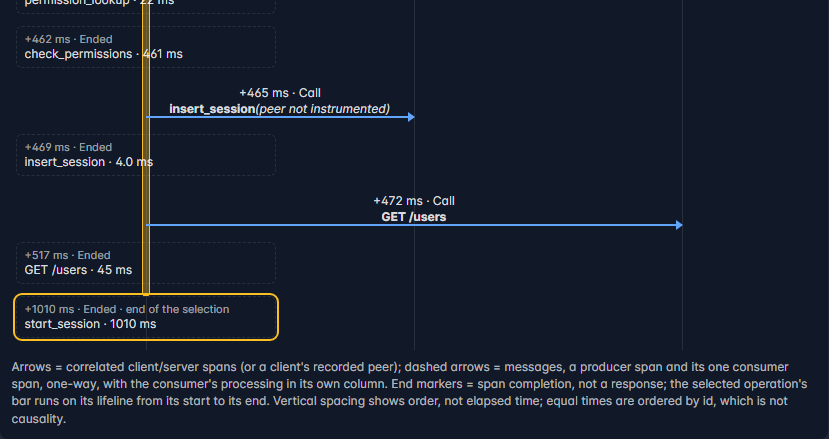
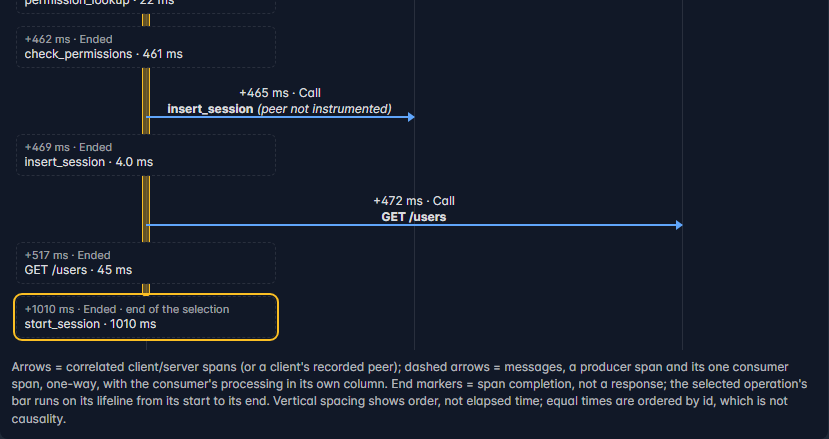
fix(ui): space before "(repeat n of m)" in Sequence call labels; site: Sequence shots with marks above the activation bar (#64)
The template compiler dropped the space at the start of the repeat label
("Call(repeat 1 of 20)"); it is now part of the expression. The Sequence
screenshots are retaken with #61-#62 (labels above the activation bar,
spaced peer notes).

diff --git a/log-ui/src/components/problems/SequenceView.vue b/log-ui/src/components/problems/SequenceView.vue
@@ -59,7 +59,7 @@
         <div v-for="e in page.events" :key="e.id" class="row">
           <button v-if="e.kind === 'call' || e.kind === 'message'" type="button" class="arrow" :class="{ sel: isSelected(e), rtl: col(e.target!) < col(e.participant), msg: e.kind === 'message' }"
             :style="arrowStyle(e)" :aria-pressed="isSelected(e)" @click="pick(e)" :data-testid="e.kind === 'message' ? 'seq-message' : 'seq-call'" :data-span-key="e.spanKey">
-            <span class="lbl">+{{ fmtMs(e.timeMs ?? 0) }} ms · {{ e.kind === 'message' ? 'Message' : 'Call' }}<template v-if="repeatOf(e)"> {{ repeatOf(e) }}</template><br><b>{{ e.label }}</b><i v-if="!targetObserved(e)" class="peer">(peer not instrumented)</i></span>
+            <span class="lbl">+{{ fmtMs(e.timeMs ?? 0) }} ms · {{ e.kind === 'message' ? 'Message' : 'Call' }}{{ repeatOf(e) ? ' ' + repeatOf(e) : '' }}<br><b>{{ e.label }}</b><i v-if="!targetObserved(e)" class="peer">(peer not instrumented)</i></span>
             <span class="line"/>
           </button>
           <button v-else type="button" class="mark" :class="[e.kind, statusClass(e), { sel: isSelected(e) }]" :style="markStyle(e)"
